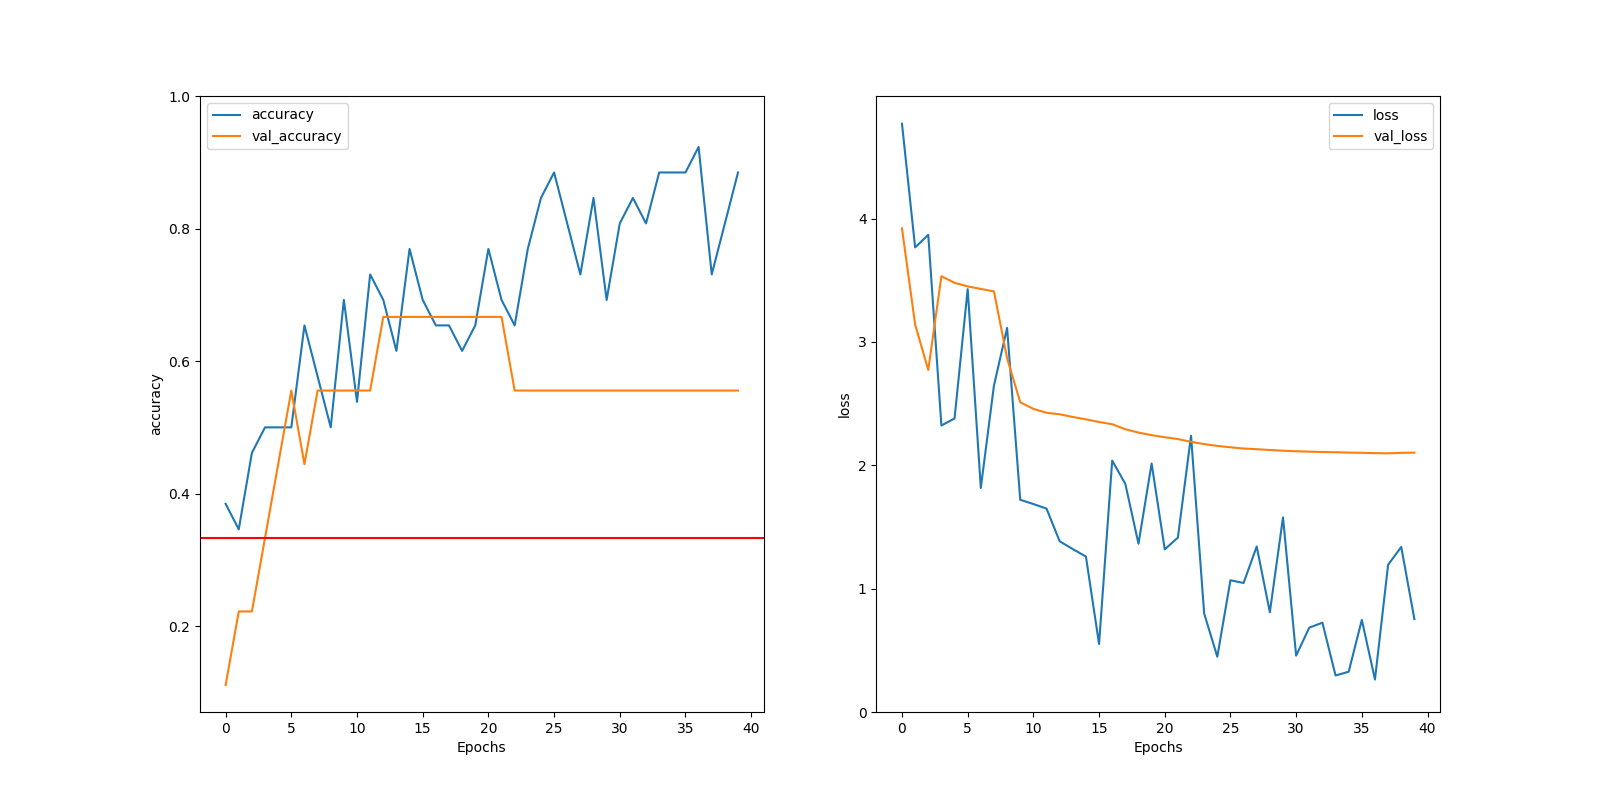
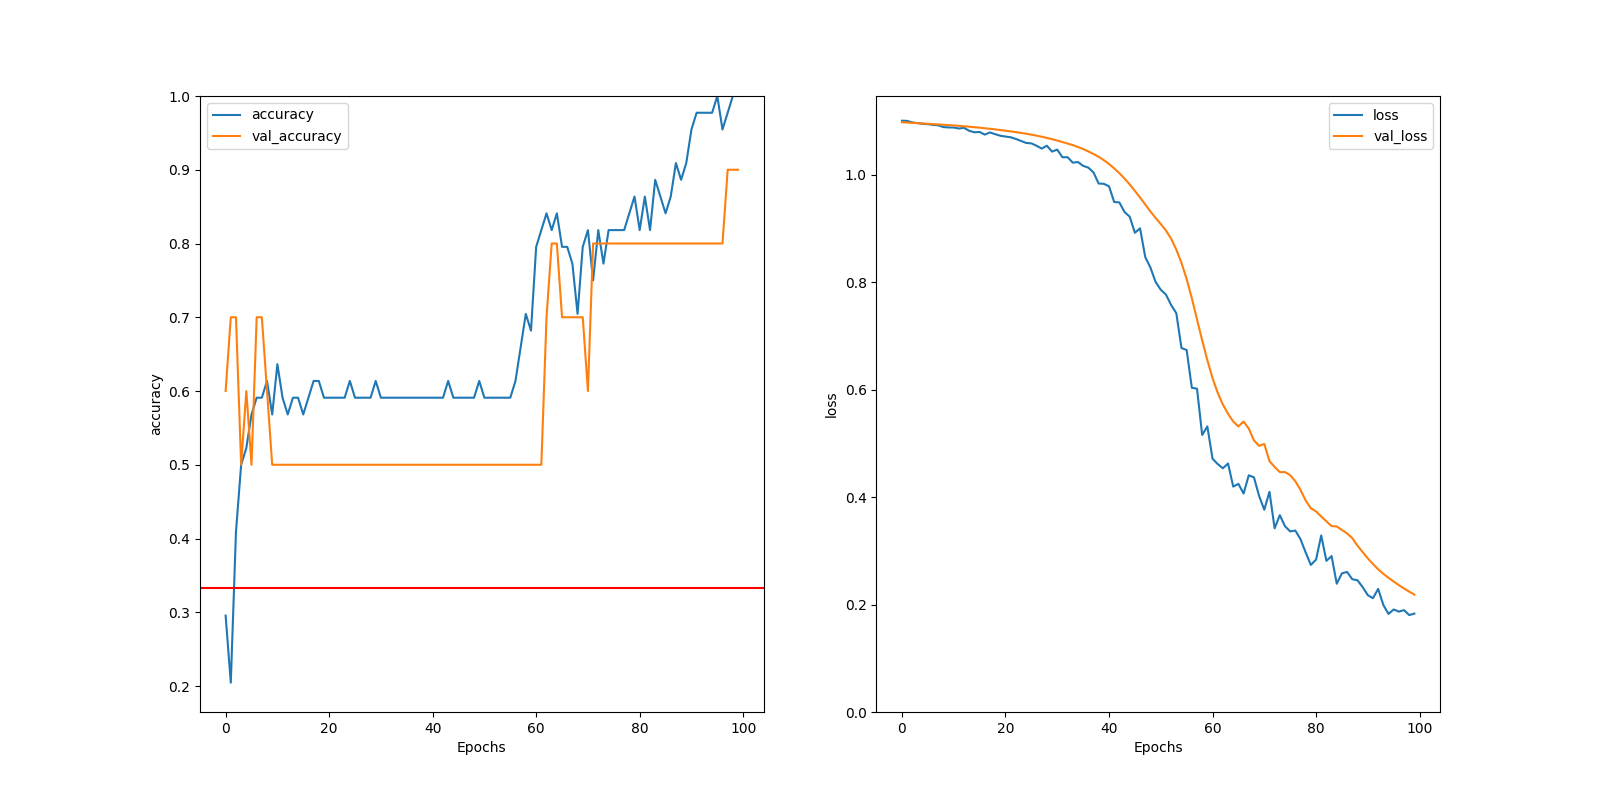
Increasing learning rate and epoch count, changing to softmax output
The softmax has the benefit of being interpretable as a probability density function. The increased learning rate and number of epochs seem to drastically improve the performance of the model, to the point where it is now comparable in performance to the naive version I made years ago based on the letter frequency of words.

diff --git a/neuralNet.py b/neuralNet.py
@@ -33,6 +33,8 @@ encoder.adapt(train_dataset.map(lambda text, label: text))
 ##vocab = np.array(encoder.get_vocabulary())
 ##print(vocab[:40])
 
+# nnet = tf.keras.models.load_model("./models/my_nnet")
+
 model = tf.keras.Sequential([
     encoder,
     tf.keras.layers.Embedding(
@@ -46,16 +48,17 @@ model = tf.keras.Sequential([
     tf.keras.layers.Bidirectional(tf.keras.layers.LSTM(32)),
     tf.keras.layers.Dense(64, activation='relu'),
     tf.keras.layers.Dropout(0.5),
-    tf.keras.layers.Dense(NUM_LANGUAGES)
+    # Softmax generates probability distribution
+    tf.keras.layers.Dense(NUM_LANGUAGES, activation='softmax')
 ])
 
 loss_fn = tf.keras.losses.SparseCategoricalCrossentropy()
-optimizer = tf.keras.optimizers.Adam(1e-4)
+optimizer = tf.keras.optimizers.Adam(1e-3)
 metrics = ['accuracy']
 model.compile(loss=loss_fn, optimizer=optimizer, metrics=metrics)
 
 # 30 to 50 epochs seems to be enough to fit without causing extreme overfitting
-history = model.fit(train_dataset, epochs=40, validation_data=test_dataset, verbose=2)
+history = model.fit(train_dataset, epochs=50, validation_data=test_dataset, verbose=2)
 
 test_loss, test_acc = model.evaluate(test_dataset)
 
@@ -74,19 +77,18 @@ plot_graphs(history, 'loss')
 plt.ylim(0,None)
 plt.show()
 
-# I am not quite sure why the output layer isn't already a probability distribution,
-# so I am trying to create one by setting the lowest to zero and scaling all other values
-# so that their sum is equal to one
 print()
 while True:
   text = input("Enter text to guess the language of:\n")
+  if text == "*save":
+    name = input("Enter a name for the neural net save file: ")
+    model.save("./models/" + name)
+    print("Done saving.")
   out = model.predict([text])[0]
-  #out -= min(out) # Set zero probability as a baseline
-  #out /= sum(out) # Get probability distribution from model output
   out = [(trainingData.language_map[i].capitalize(), e) for i, e in enumerate(out)]
   # print(out)
   out.sort(key=lambda v: -v[1]) # Sort by probability, descending
   print("Language predictions:")
   for lang, prob in out:
-    print(f"{lang+':':<10}\t{100*prob:.3f}")
+    print(f"{lang+':':<10}\t{100*prob:.3f}%")
   print()

diff --git a/README.md b/README.md
@@ -5,4 +5,8 @@
 
  ![sample Image](sampleResults.png)
 
- The red horizontal line represents the baseline accuracy of a model that guesses language by random chance, for the sake of comparison.
+ The red horizontal line represents the baseline accuracy of a model that guesses language by random chance, for the sake of comparison. An example where the model achieved perfect matches with all training and testing data within 50 epochs is pictured below:
+
+![sample Image 2](sampleResults2.png)
+
+The first image used a learning rate of `1e-4`, whereas the second used a learning rate of `1e-3`.
